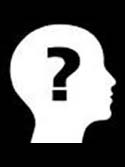
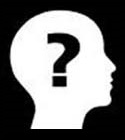
version 2.0.7 (fixed image size)

diff --git a/presentornot_list.php b/presentornot_list.php
@@ -96,7 +96,7 @@ while ( $rowSelect = mysql_fetch_assoc($resultSelect) ) {
 		$photo = str_replace(' ', '.', $photo);
 		$photo = strtolower( $photo . '.jpg' );
 		$photo = checkImageExists( class_settings::get('staff_images_directory') . $photo, class_settings::get('noimage_file') );
-		$photo = "<img src=\"$photo\">";
+		$photo = "<img src=\"$photo\"  style=\"height:140px;\">";
 
 		$tmp = str_replace('::PHOTO::', $photo, $tmp);
 	}

diff --git a/design/presentornot.css.php b/design/presentornot.css.php
@@ -208,6 +208,7 @@ div.checkedInOut {
 .presentornot_absence {
 	font-size: 80%;
 	text-align: center;
+	border-color: black;
 }
 
 a.checkinouttime {
